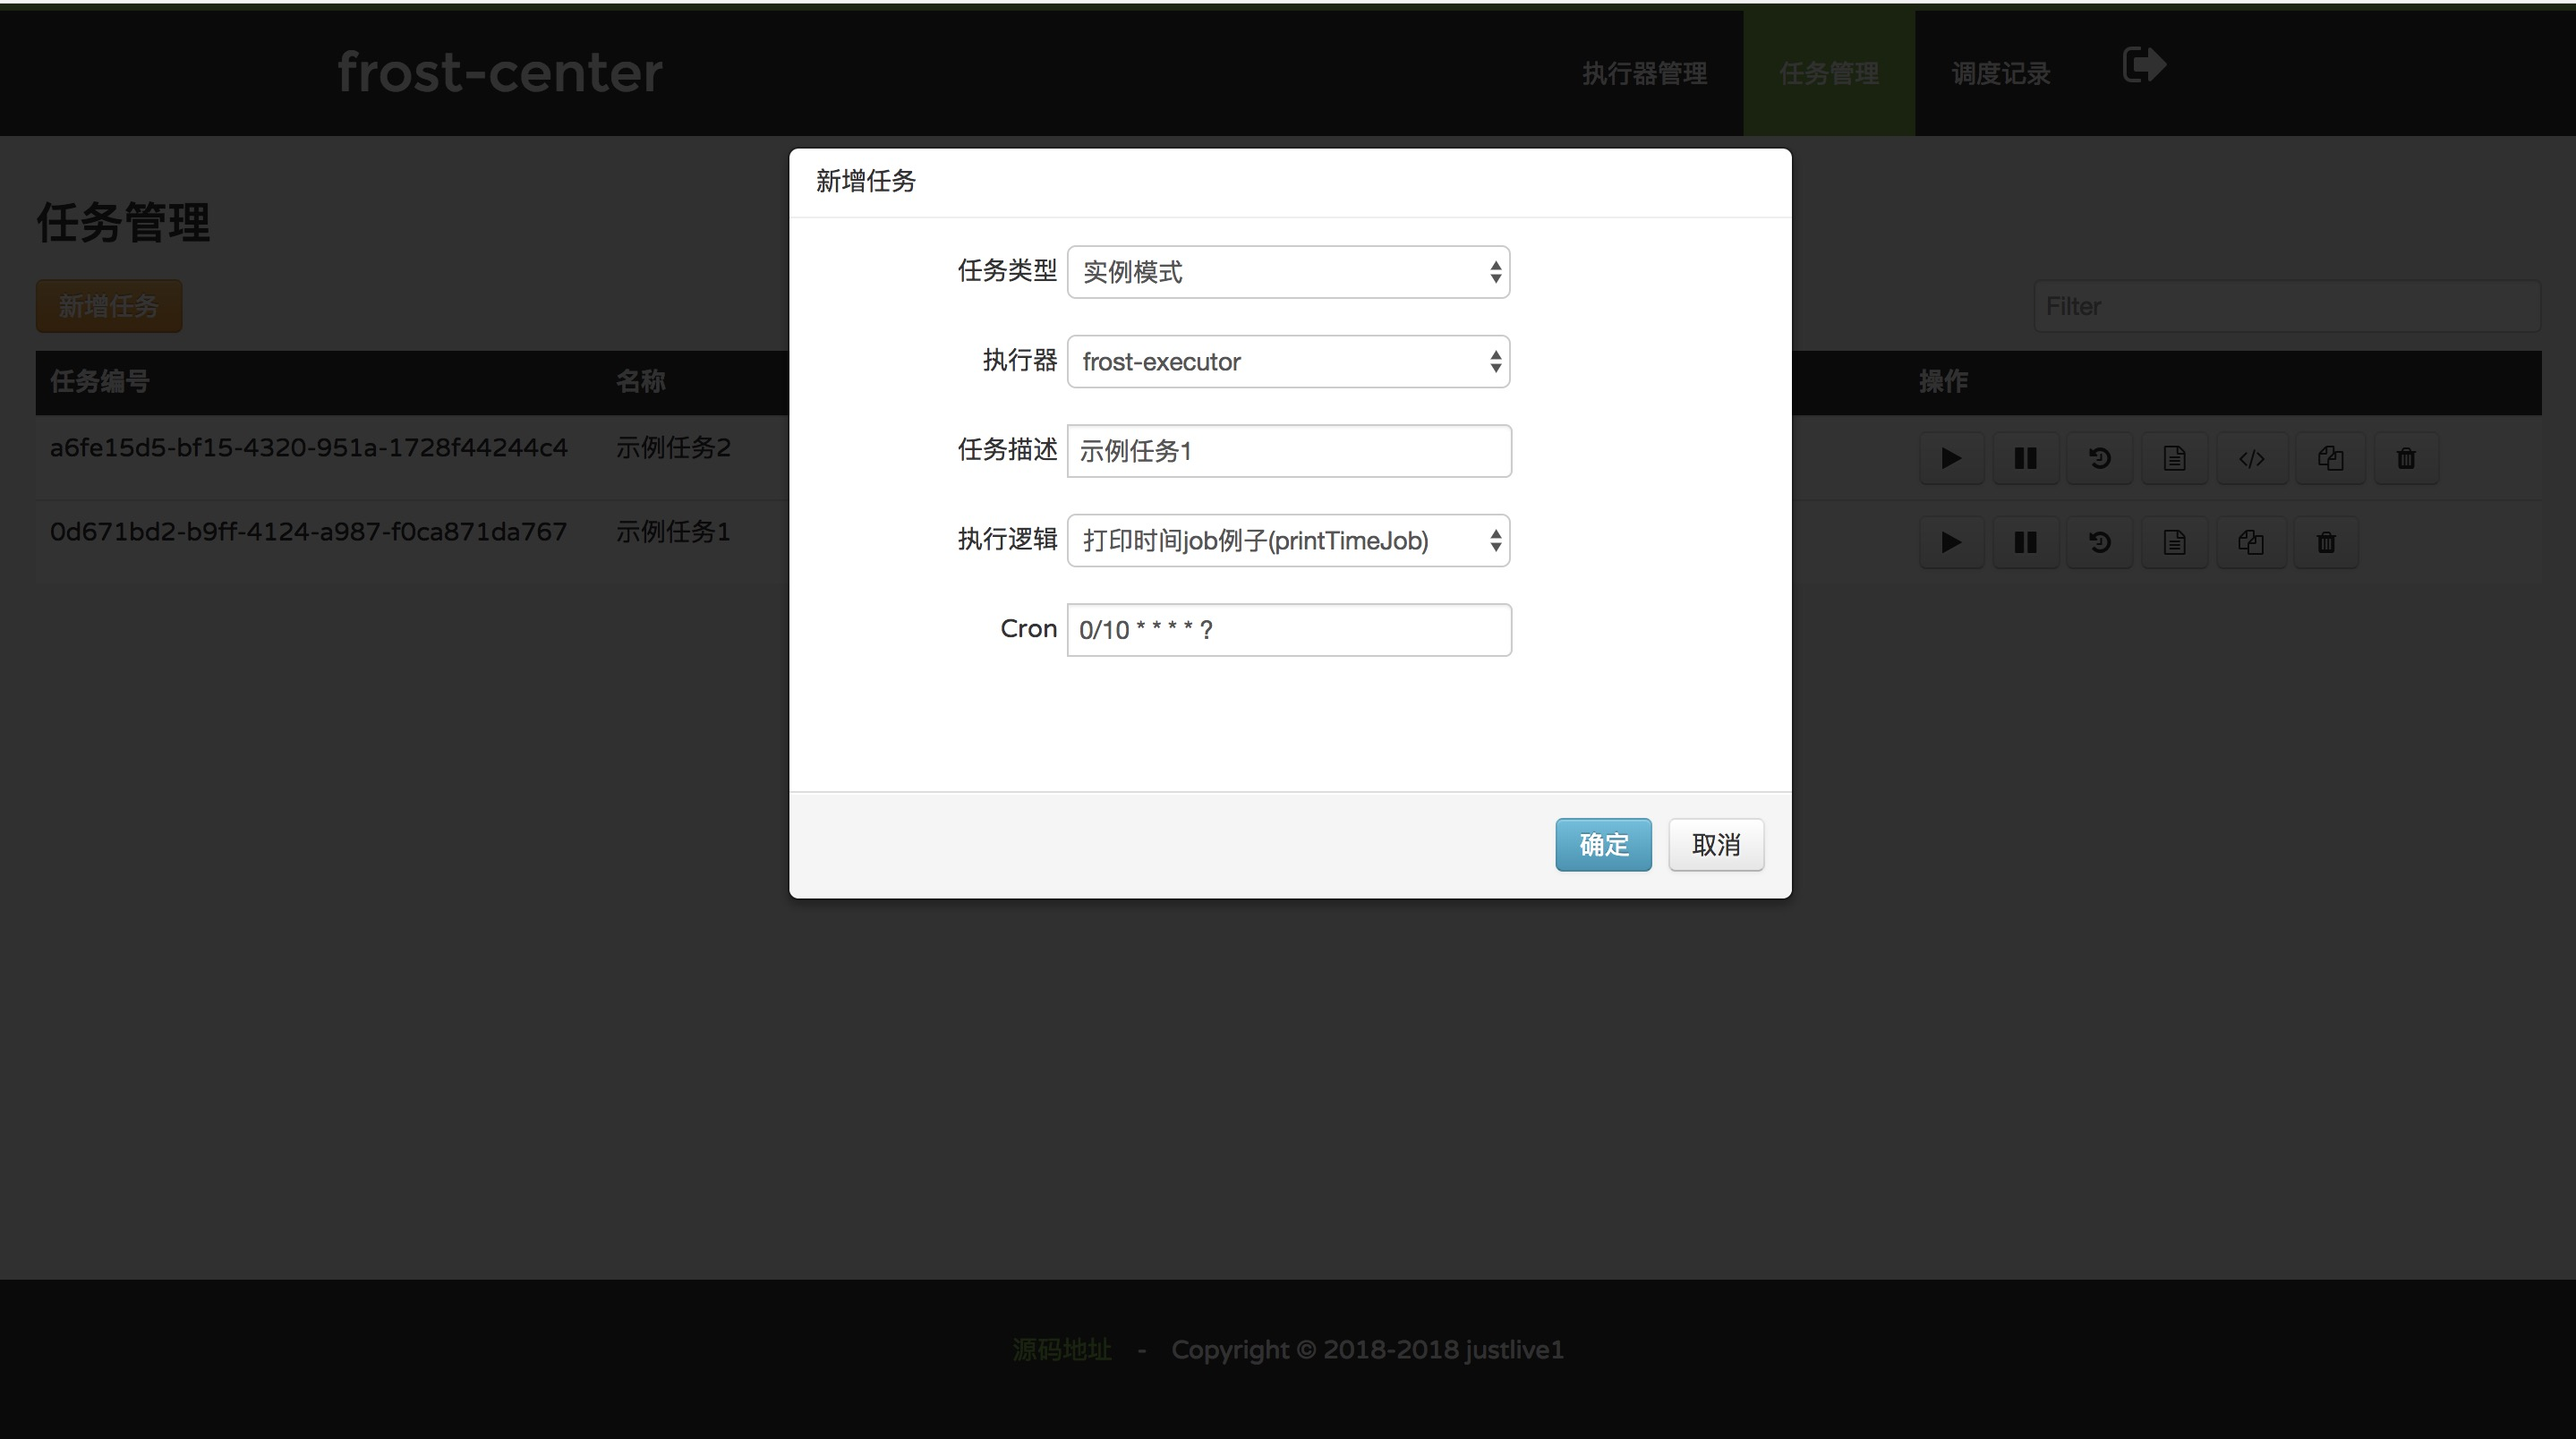
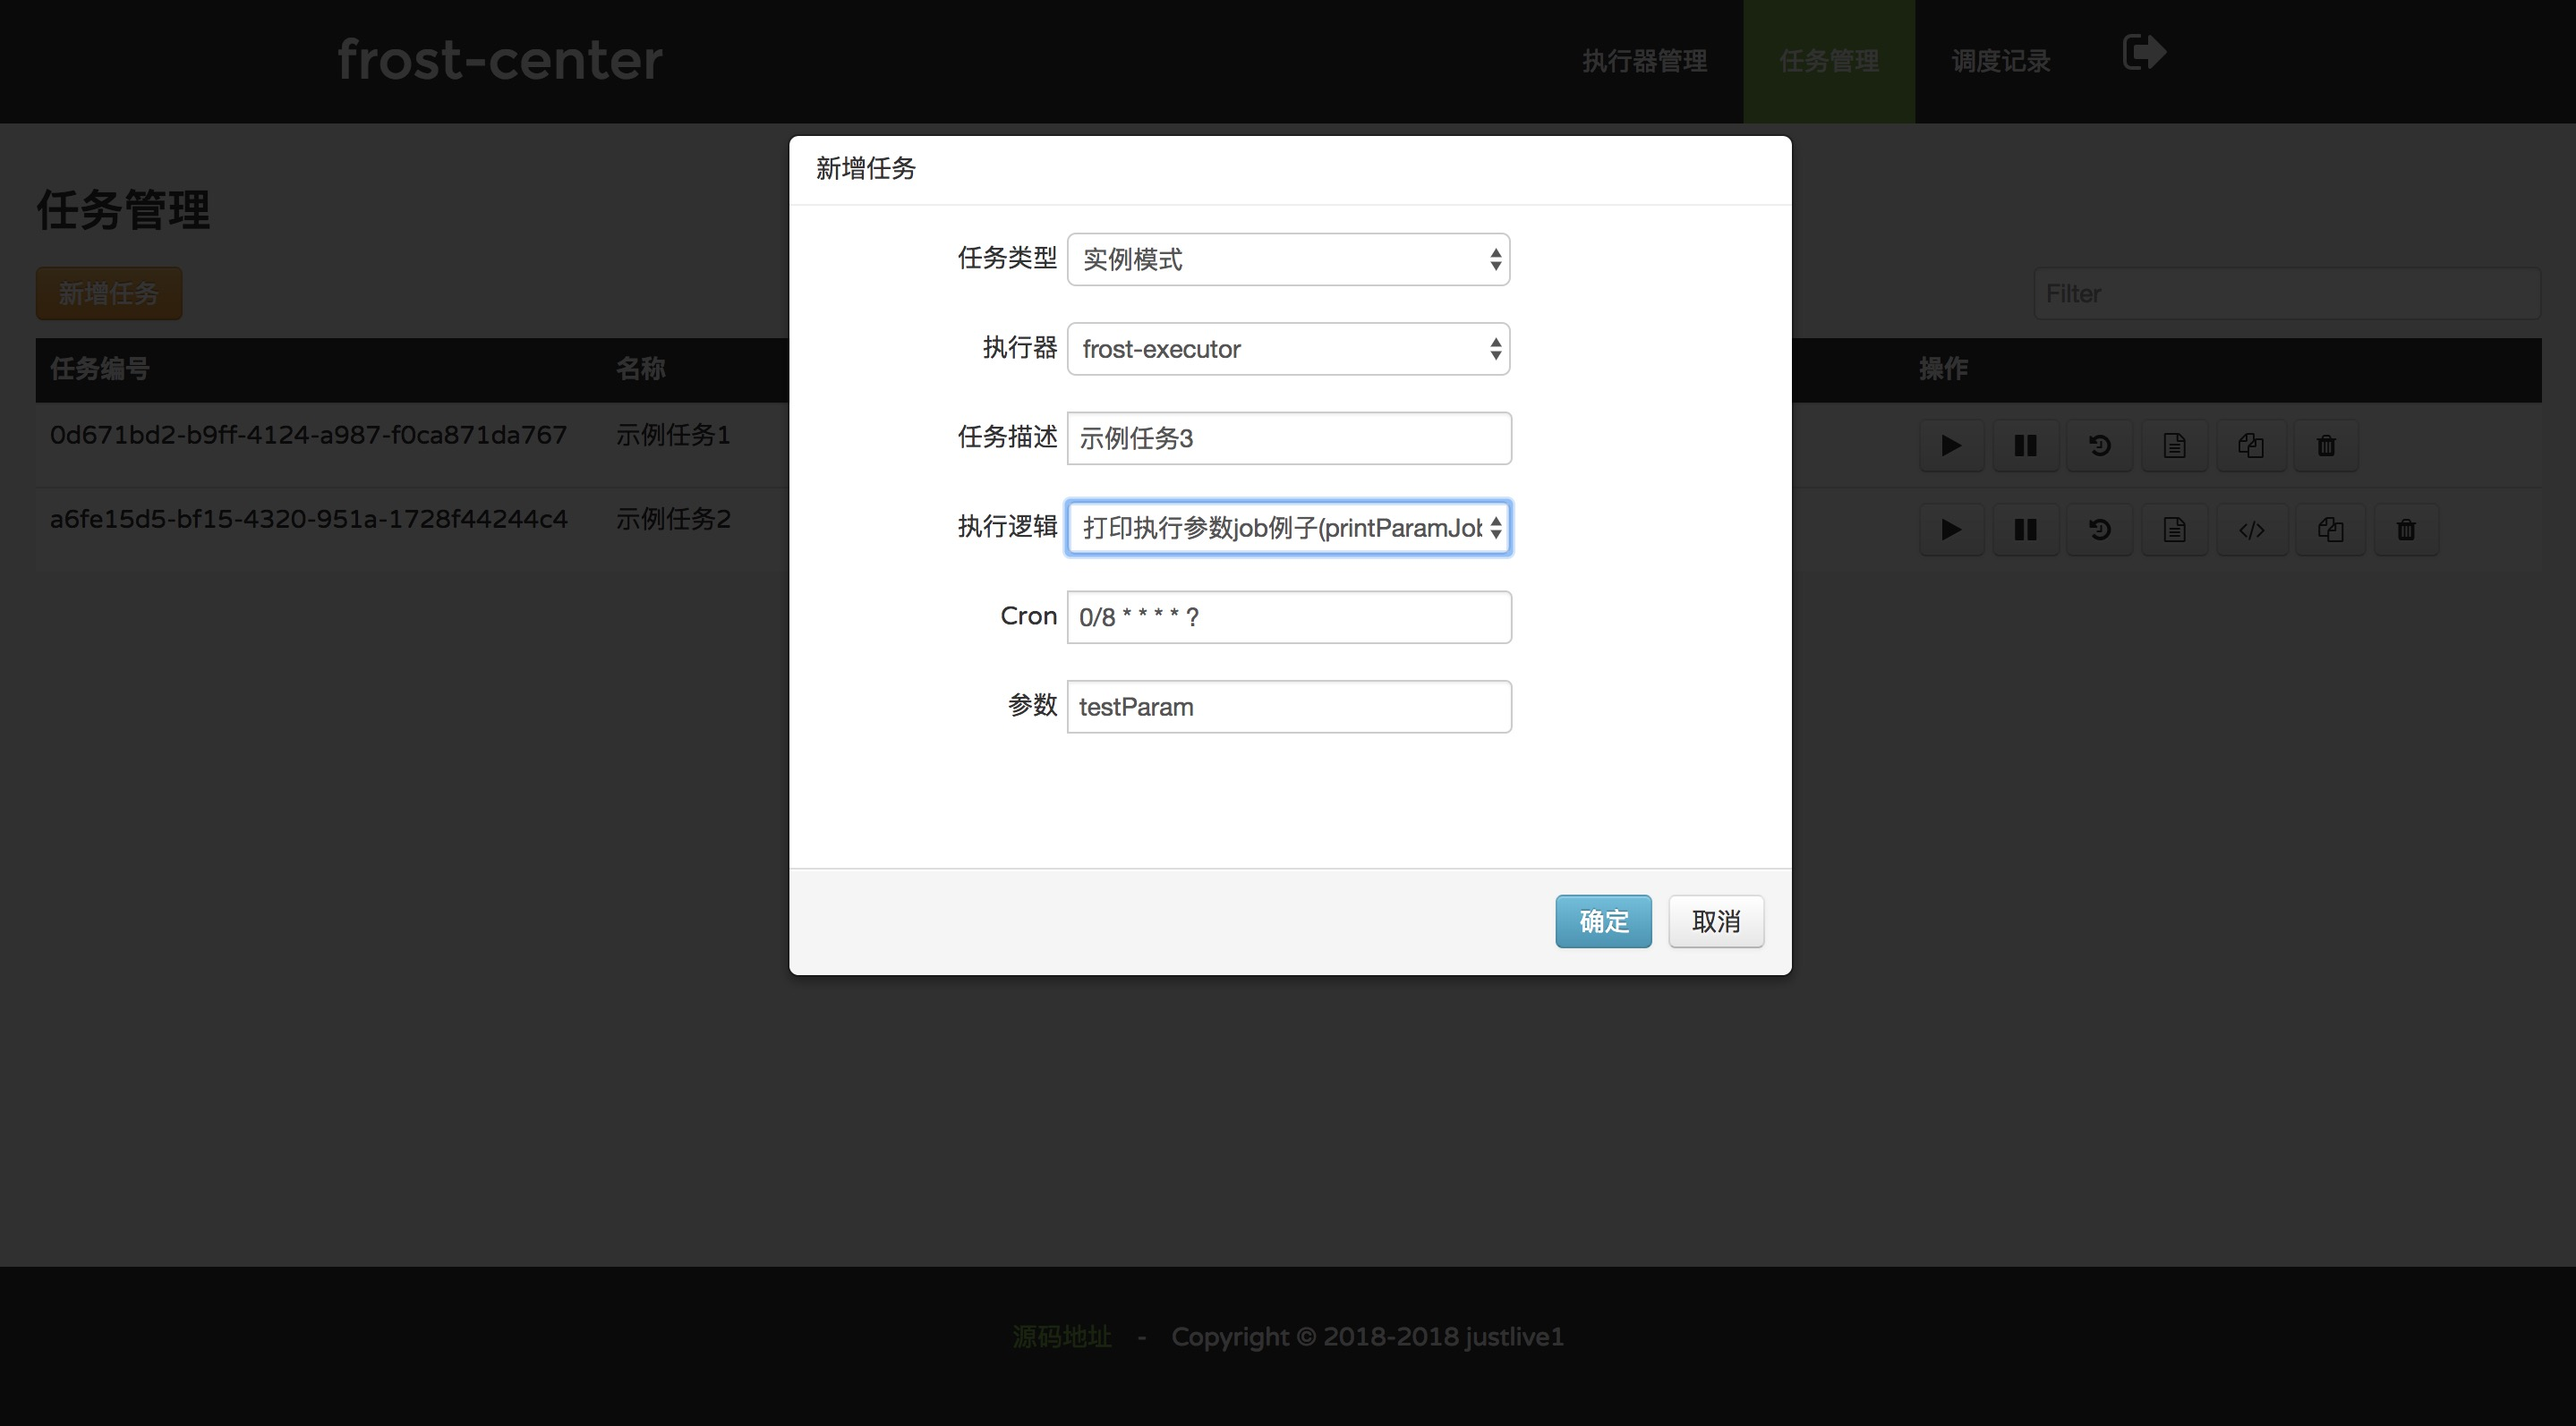
增加任务参数示例

diff --git a/frost-center/src/main/resources/static/js/frost.js b/frost-center/src/main/resources/static/js/frost.js
@@ -177,7 +177,8 @@ function jobsController($rootScope, $scope, $http, $filter, $uibModal, $state) {
 			var job = {
 				 name: $scope.modalDatas.name,
 				 cron: $scope.modalDatas.cron,
-				 type: $scope.modalDatas.type
+				 type: $scope.modalDatas.type,
+				 param: $scope.modalDatas.param
 			 };
 			 var flag = true;
 			 if($scope.modalDatas.type == 'SCRIPT'){
@@ -191,7 +192,6 @@ import justlive.earth.breeze.frost.core.job.Job;
 import justlive.earth.breeze.frost.core.job.JobContext;
  
 @Job(value = "DemoScriptJob", desc = "示例脚本job")
-@Component
 public class DemoScriptJob implements IJob {
  
  @Override
@@ -342,6 +342,7 @@ public class DemoScriptJob implements IJob {
 				$scope.modalDatas.type = data.data.type;
 				$scope.modalDatas.cron = data.data.cron;
 				$scope.modalDatas.name = data.data.name;
+				$scope.modalDatas.param = data.data.param;
 				if (data.data.group) {
 					var executor = $scope.modalDatas.executorGroupMap.get(data.data.group.groupKey);
 					if(executor){

diff --git a/frost-center/src/main/resources/templates/views/addJob.html b/frost-center/src/main/resources/templates/views/addJob.html
@@ -66,6 +66,15 @@
 				</div>
 			</div>
 		</div>
+		<div class="control-group">
+			<label class="control-label width135"> 参数 </label>
+			<div class="controls">
+				<div class="input-prepend">
+					<input type="text" ng-model="modalDatas.param"
+						class="input-large width235">
+				</div>
+			</div>
+		</div>
 		<div class="control-group error">
 			<div class="help-inline error-message margin-left180">{{modalDatas.error}}</div>
 		</div>

diff --git a/frost-executor/src/main/java/justlive/earth/breeze/frost/executor/example/PrintParamJob.java b/frost-executor/src/main/java/justlive/earth/breeze/frost/executor/example/PrintParamJob.java
@@ -1,0 +1,24 @@
+package justlive.earth.breeze.frost.executor.example;
+
+import org.springframework.stereotype.Component;
+import justlive.earth.breeze.frost.core.job.IJob;
+import justlive.earth.breeze.frost.core.job.Job;
+import justlive.earth.breeze.frost.core.job.JobContext;
+import lombok.extern.slf4j.Slf4j;
+
+/**
+ * 打印执行参数job例子
+ * 
+ * @author wubo
+ *
+ */
+@Slf4j
+@Job(value = "printParamJob", desc = "打印执行参数job例子")
+@Component
+public class PrintParamJob implements IJob {
+
+  @Override
+  public void execute(JobContext ctx) {
+    log.info("执行参数: {}", ctx.getInfo().getParam());
+  }
+}

diff --git a/frost-api/src/main/java/justlive/earth/breeze/frost/api/model/JobInfo.java b/frost-api/src/main/java/justlive/earth/breeze/frost/api/model/JobInfo.java
@@ -69,6 +69,11 @@ public class JobInfo {
   private String script;
 
   /**
+   * 参数
+   */
+  private String param;
+
+  /**
    * 任务Id
    */
   private String taskId;
